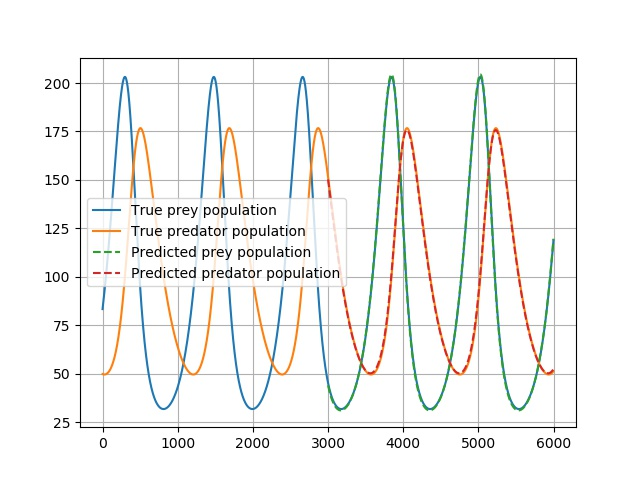
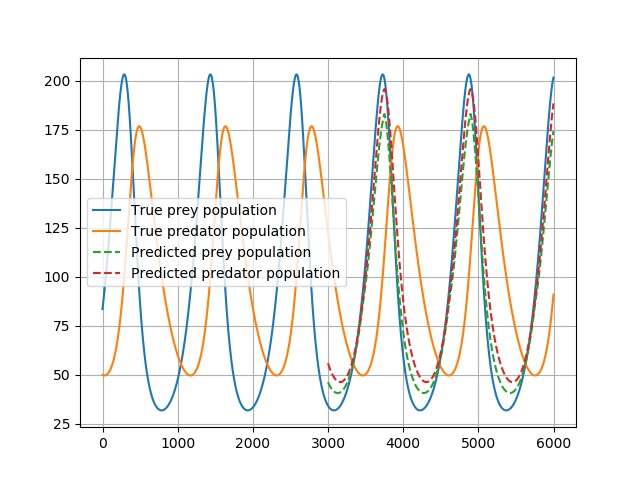
dummy commit

diff --git a/TCN/prey_pred_model/prey_pred_sequence_randInit_denseNN.py b/TCN/prey_pred_model/prey_pred_sequence_randInit_denseNN.py
@@ -59,10 +59,10 @@ training_examples = 3000
 print(args)
 print("Producing data...")
 data = prey_pred_data_randinit(total_examples, seq_length)
-X_train = data[0][:training_examples,:,:]
-Y_train = data[1][:training_examples,:]
-X_test = data[0][training_examples:,:,:]
-Y_test = data[1][training_examples:,:]
+X_train = torch.from_numpy(data[0][:training_examples,:,:] ).float()
+Y_train = torch.from_numpy( data[1][:training_examples,:] ).float()
+X_test = torch.from_numpy (data[0][training_examples:,:,:]).float()
+Y_test = torch.from_numpy ( data[1][training_examples:,:] ).float()
 
 # Note: We use a very simple setting here (assuming all levels have the same # of channels.
 channel_sizes = [args.nhid]*args.levels
@@ -145,8 +145,8 @@ plt.savefig('rand_init_denseNN/prey_pred_losses_randInit.jpg')
 # data = (x,y)
 # X_test = X[training_examples:,:,:]
 # without dt
-data = prey_pred_data(total_examples, seq_length)
-X_test = data[0][training_examples:,:,:]
+data = prey_pred_data_constinit(total_examples, seq_length)
+X_test = data[0][training_examples:,:,:].float()
 if args.cuda:
     X_test = X_test.cuda()
 model.eval()
@@ -156,8 +156,8 @@ model.eval()
 output = model(X_test, seq_length )
 
 plt.figure()
-plt.plot(range(total_examples),data[1][:,0].cpu().numpy())
-plt.plot(range(total_examples),data[1][:,1].cpu().numpy())
+plt.plot(range(total_examples),data[1][:,0])
+plt.plot(range(total_examples),data[1][:,1])
 plt.plot(range(training_examples,total_examples),output[:,0].cpu().detach().numpy(), '--')
 plt.plot(range(training_examples,total_examples),output[:,1].cpu().detach().numpy(), '--')
 plt.grid(True)
